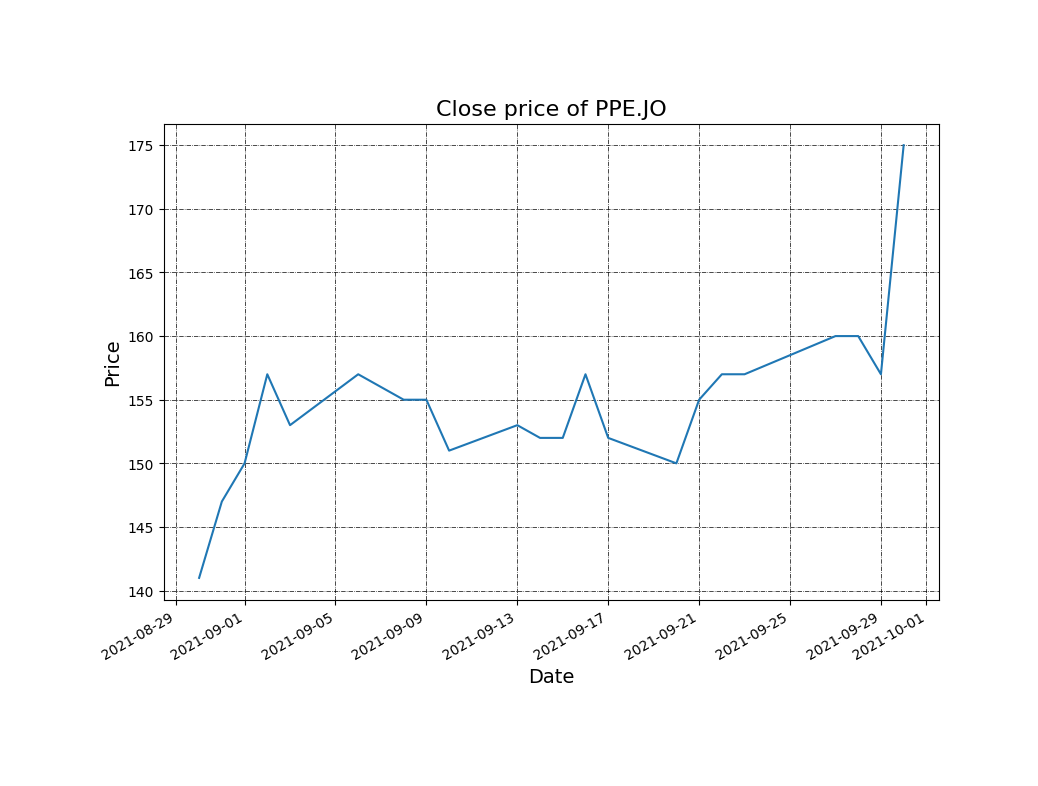
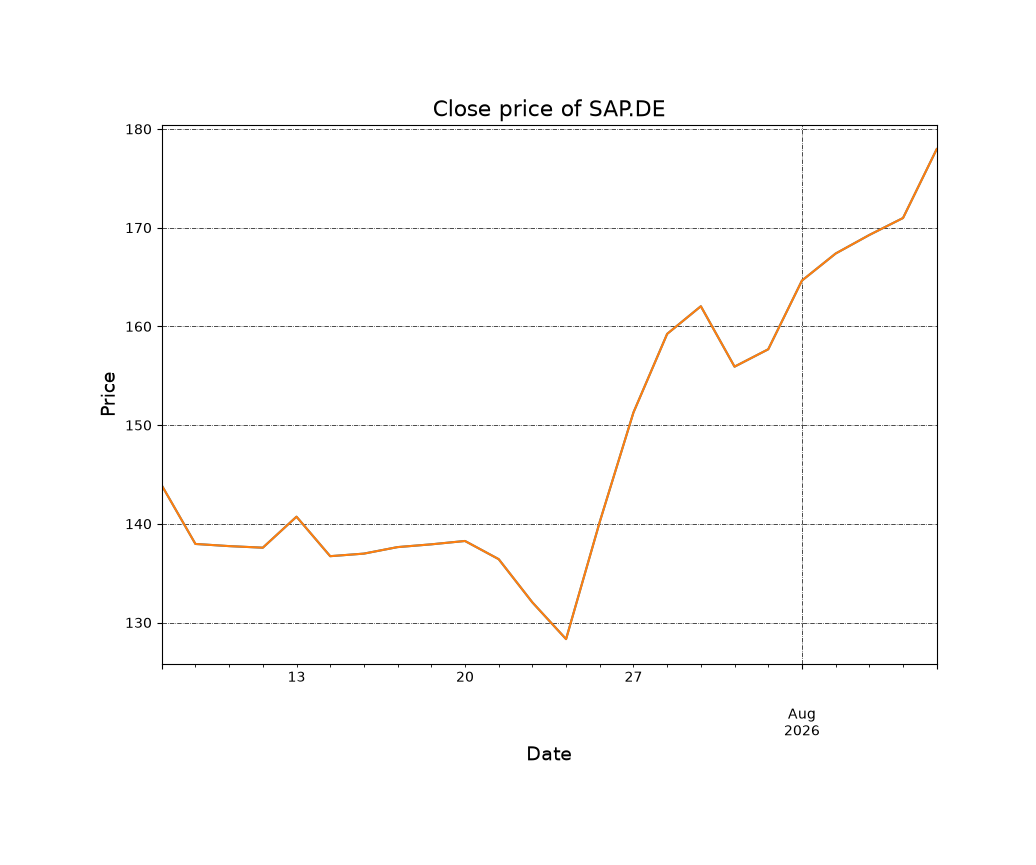
Refactor bot token retrieval and enhance currency formatting; add .env to .gitignore

diff --git a/main.py b/main.py
@@ -7,13 +7,17 @@ import yfinance as yf
 from time import sleep
 import matplotlib.pyplot as plt
 from PIL import Image
+import os
+from dotenv import load_dotenv
+
+load_dotenv()
 
 #Define variables. In this case, the API key.
 BOT_INTERVAL = 0.1
 BOT_TIMEOUT = 3
 
 #Generate new bot instance
-bot = tb.TeleBot(process.env.BOT_TOKEN)
+bot = tb.TeleBot(os.getenv("BOT_TOKEN"))
 actions = ["/start","/help"]
 
 #The start and help functions help the user understand the functionality of the bot
@@ -108,8 +112,13 @@ def formatter(currency,value):
             return "R"+str(remove_zeros(value))
         else:
             return "-R"+str(remove_zeros(-1*value))
+    elif currency == "EUR":
+        if value >= 0:
+            return "€"+str(remove_zeros(value))
+        else:
+            return "-€"+str(remove_zeros(-1*value))
     else:
-        return str(value)
+        return str(remove_zeros(value))
 
 def remove_zeros(value):
     reverse_value = str(value)
@@ -139,7 +148,7 @@ def all_request(message):
 def send_all_data(message):
     ticker_symbol = message.text.split()[1].upper()
     ticker_data = yf.Ticker(ticker_symbol).info
-    if ticker_data["regularMarketPrice"] != None and ticker_data["logo_url"] != "":
+    if ticker_data["regularMarketPrice"] != None:
         response = f"All the data for {ticker_symbol}: \n"
         bot.send_message(message.chat.id, response)
 
@@ -332,7 +341,7 @@ def send_revenue(message):
     ticker_symbol = message.text.split()[1].upper()
     ticker = yf.Ticker(ticker_symbol)
     ticker_data = ticker.info
-    if ticker_data["regularMarketPrice"] != None and ticker_data["logo_url"] != "":
+    if ticker_data["regularMarketPrice"] != None:
         response = f"Here is the revenue information for {ticker_symbol}: "
         bot.send_message(message.chat.id,response)
         currency = ticker_data["financialCurrency"]
@@ -360,7 +369,7 @@ def send_financials(message):
     ticker_data = ticker.info
     ticker_finance = ticker.financials
 
-    if ticker_data["regularMarketPrice"] != None and ticker_data["logo_url"] != "":
+    if ticker_data["regularMarketPrice"] != None:
         response = f"Here is the financial statement information for {ticker_symbol}: "
         bot.send_message(message.chat.id,response)
         currency = ticker_data["financialCurrency"]
@@ -389,7 +398,7 @@ def send_balance_sheet(message):
     ticker_data = ticker.info
     ticker_balance = ticker.balance_sheet
 
-    if ticker_data["regularMarketPrice"] != None and ticker_data["logo_url"] != "":
+    if ticker_data["regularMarketPrice"] != None:
         currency = ticker_data["financialCurrency"]
         response = f"Here is the balancesheet data for {ticker_symbol}: "
         bot.send_message(message.chat.id,response)
@@ -418,7 +427,7 @@ def send_cashflow(message):
     ticker_data = ticker.info
     ticker_cashflow = ticker.cashflow
 
-    if ticker_data["regularMarketPrice"] != None and ticker_data["logo_url"] != "":
+    if ticker_data["regularMarketPrice"] != None:
         response = f"Here is the cashflow information for {ticker_symbol}: "
         bot.send_message(message.chat.id,response)
         for i in ticker_cashflow.index:
@@ -447,7 +456,7 @@ def send_sustainability(message):
     ticker_data = ticker.info
     ticker_sustainability = ticker.sustainability
 
-    if ticker_data["regularMarketPrice"] != None and ticker_data["logo_url"] != "":
+    if ticker_data["regularMarketPrice"] != None:
         if str(type(ticker_sustainability)) != "<class 'NoneType'>":
             response = f"Here is the sustainability data for {ticker_symbol}: "
             bot.send_message(message.chat.id,response)
